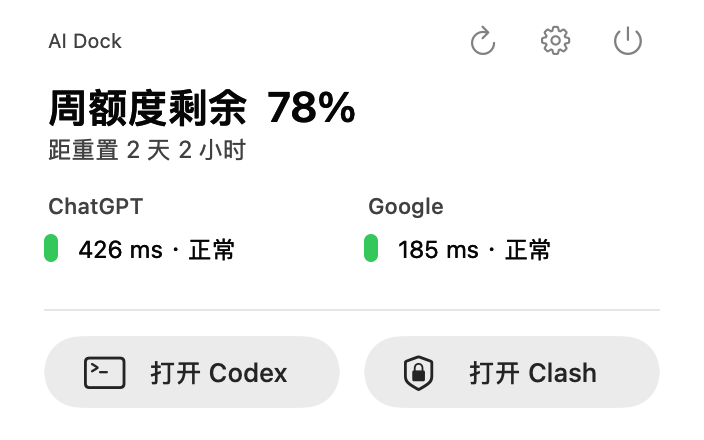
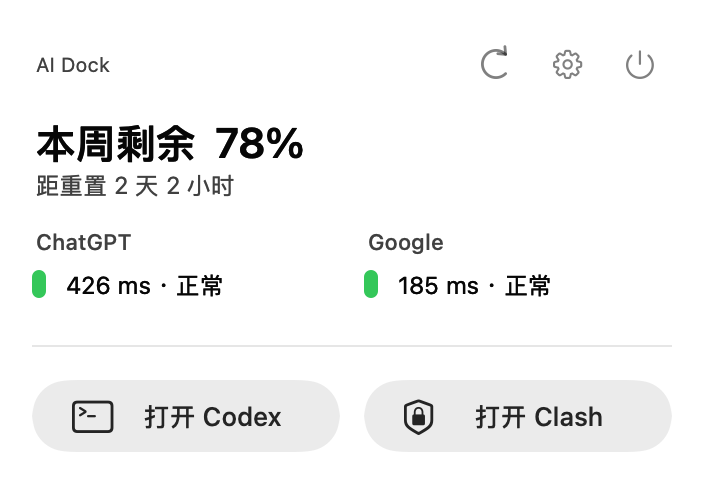
Center refresh on its circular arc, smooth both transitions and balance panel margins

diff --git a/Sources/main.swift b/Sources/main.swift
@@ -222,139 +222,110 @@ func probeLabel(_ name: String, checked: Bool, latency: Int?, threshold: Int) ->
 final class RefreshGlyphButton: NSButton {
     enum Phase { case idle, running, success, failure }
     private let ink = CALayer()
-    private let symbol = CALayer()
     private let stroke = CAShapeLayer()
     private let head = CAShapeLayer()
     private var phase: Phase = .idle
+    static let radius: CGFloat = 6.8
     static func path(check: Bool) -> CGPath {
         let p = CGMutablePath()
         for i in 0...48 {
-            let t = CGFloat(i) / 48
+            let t = CGFloat(i)/48
             let point: CGPoint
             if check {
-                let a = CGPoint(x: 8, y: 16), b = CGPoint(x: 14, y: 22), c = CGPoint(x: 24, y: 9)
-                if t < 0.38 { let u = t / 0.38; point = CGPoint(x: a.x + (b.x-a.x)*u, y: a.y + (b.y-a.y)*u) }
-                else { let u = (t-0.38)/0.62; point = CGPoint(x: b.x+(c.x-b.x)*u, y:b.y+(c.y-b.y)*u) }
+                let a=CGPoint(x:9.5,y:16), b=CGPoint(x:14,y:20.5), c=CGPoint(x:23,y:10.5)
+                if t < 0.34 { let u=t/0.34; point=CGPoint(x:a.x+(b.x-a.x)*u,y:a.y+(b.y-a.y)*u) }
+                else { let u=(t-0.34)/0.66; point=CGPoint(x:b.x+(c.x-b.x)*u,y:b.y+(c.y-b.y)*u) }
             } else {
-                let angle = CGFloat.pi / 4 + t * 3 * CGFloat.pi / 2
-                point = CGPoint(x: 16 + cos(angle)*8, y:16 + sin(angle)*8)
+                let angle=CGFloat.pi/4+t*3*CGFloat.pi/2
+                point=CGPoint(x:16+cos(angle)*radius,y:16+sin(angle)*radius)
             }
             if i == 0 { p.move(to:point) } else { p.addLine(to:point) }
         }
         return p
     }
-    override init(frame frameRect: NSRect) {
-        super.init(frame:frameRect)
-        title = ""; isBordered = false; wantsLayer = true
-        image = NSImage(systemSymbolName:"arrow.clockwise",accessibilityDescription:nil)?.withSymbolConfiguration(NSImage.SymbolConfiguration(pointSize:14,weight:.regular))
-        contentTintColor = .secondaryLabelColor
-        imagePosition = .imageOnly; imageScaling = .scaleNone
-        ink.isHidden = true
-        ink.bounds = CGRect(x:0,y:0,width:32,height:32); ink.position = CGPoint(x:16,y:16)
-        ink.isGeometryFlipped = false
+    override init(frame:NSRect) {
+        super.init(frame:frame)
+        title=""; isBordered=false; wantsLayer=true
+        ink.bounds=CGRect(x:0,y:0,width:32,height:32)
+        ink.anchorPoint=CGPoint(x:0.5,y:0.5); ink.position=CGPoint(x:16,y:16)
         layer?.addSublayer(ink)
-        symbol.bounds = CGRect(x:0,y:0,width:32,height:32)
-        symbol.anchorPoint = CGPoint(x:0.5,y:0.5)
-        symbol.position = CGPoint(x:16,y:16)
-        layer?.addSublayer(symbol)
-        updateSymbol()
-        image = nil
         for line in [stroke,head] {
-            line.fillColor = nil; line.lineWidth = 1.5; line.lineCap = .round; line.lineJoin = .round
+            line.fillColor=nil;line.lineWidth=1.4;line.lineCap = .round;line.lineJoin = .round
             ink.addSublayer(line)
         }
-        stroke.path = Self.path(check:false)
-        let angle = 7 * CGFloat.pi / 4
-        let tip = CGPoint(x:16+cos(angle)*8,y:16+sin(angle)*8)
-        let tangent = CGPoint(x:-sin(angle),y:cos(angle))
-        let wing = CGMutablePath()
-        wing.move(to:CGPoint(x:tip.x-tangent.x*4-tangent.y*3,y:tip.y-tangent.y*4+tangent.x*3))
+        stroke.path=Self.path(check:false)
+        let angle=7*CGFloat.pi/4
+        let tip=CGPoint(x:16+cos(angle)*Self.radius,y:16+sin(angle)*Self.radius)
+        // Arrowhead wings share the clockwise tangent, independently of its bounds.
+        let tangent=CGPoint(x:-sin(angle),y:cos(angle))
+        let wing=CGMutablePath()
+        wing.move(to:CGPoint(x:tip.x-tangent.x*3-tangent.y*2.5,y:tip.y-tangent.y*3+tangent.x*2.5))
         wing.addLine(to:tip)
-        wing.addLine(to:CGPoint(x:tip.x-tangent.x*4+tangent.y*3,y:tip.y-tangent.y*4-tangent.x*3))
-        head.path = wing
-    }
-    private func updateSymbol() {
-        let glyph = NSImage(systemSymbolName:"arrow.clockwise",accessibilityDescription:nil)!.withSymbolConfiguration(NSImage.SymbolConfiguration(pointSize:14,weight:.regular))!
-        let canvas = NSImage(size:NSSize(width:32,height:32),flipped:false) { _ in
-            glyph.draw(in:NSRect(x:(32-glyph.size.width)/2,y:(32-glyph.size.height)/2,width:glyph.size.width,height:glyph.size.height))
-            let cg = NSGraphicsContext.current!.cgContext
-            cg.setBlendMode(.sourceIn)
-            cg.setFillColor(NSColor(calibratedWhite:0.52,alpha:1).cgColor)
-            cg.fill(CGRect(x:0,y:0,width:32,height:32))
-            return true
-        }
-        var rect=CGRect(x:0,y:0,width:32,height:32)
-        symbol.contents = canvas.cgImage(forProposedRect:&rect,context:nil,hints:nil)
-        symbol.contentsScale = 2
-    }
-    func hasFixedRotationCenter() -> Bool {
-        symbol.position == CGPoint(x:16,y:16) && symbol.anchorPoint == CGPoint(x:0.5,y:0.5) && symbol.bounds == CGRect(x:0,y:0,width:32,height:32) && CATransform3DIsIdentity(layer!.transform) && layer?.animation(forKey:"symbolRotation") == nil
+        wing.addLine(to:CGPoint(x:tip.x-tangent.x*3+tangent.y*2.5,y:tip.y-tangent.y*3-tangent.x*2.5))
+        head.path=wing
+        update(.idle)
     }
     required init?(coder:NSCoder) { fatalError("init(coder:) is unsupported") }
-    func update(_ next: Phase) {
-        let color = next == .failure ? NSColor.systemOrange : NSColor.secondaryLabelColor
-        CATransaction.begin(); CATransaction.setDisableActions(true)
-        stroke.strokeColor = color.cgColor; head.strokeColor = color.cgColor
-        CATransaction.commit()
-        updateSymbol()
+    func hasFixedRotationCenter()->Bool {
+        ink.position == CGPoint(x:16,y:16) && ink.anchorPoint == CGPoint(x:0.5,y:0.5) && CATransform3DIsIdentity(layer!.transform)
+    }
+    func update(_ next:Phase) {
+        effectiveAppearance.performAsCurrentDrawingAppearance {
+            CATransaction.begin();CATransaction.setDisableActions(true)
+            stroke.strokeColor=NSColor.secondaryLabelColor.cgColor
+            head.strokeColor=NSColor.secondaryLabelColor.cgColor
+            CATransaction.commit()
+        }
         isEnabled = next != .running
-        let description = next == .running ? "正在刷新" : next == .success ? "刷新完成" : next == .failure ? "刷新完成，部分数据未获取" : "刷新额度与连接状态"
-        toolTip = description; setAccessibilityLabel(description)
+        let text = next == .running ? "正在刷新" : next == .success ? "刷新完成" : next == .failure ? "刷新完成，部分数据未获取" : "刷新额度与连接状态"
+        toolTip=text;setAccessibilityLabel(text)
         guard next != phase else { return }
-        let reduce = NSWorkspace.shared.accessibilityDisplayShouldReduceMotion
-        // Rotate the same SF Symbol used at rest, around the fixed button center.
-        // Never substitute the hand-drawn morph path while spinning.
-        let rotation = symbol.presentation()?.transform ?? CATransform3DIdentity
-        symbol.removeAnimation(forKey:"symbolRotation")
-        if next == .running {
-            image = NSImage(systemSymbolName:"arrow.clockwise",accessibilityDescription:nil)?.withSymbolConfiguration(NSImage.SymbolConfiguration(pointSize:14,weight:.regular))
-            image = nil; symbol.isHidden = false
-            ink.isHidden = true
-            if !reduce {
-                let spin = CABasicAnimation(keyPath:"transform.rotation.z")
-                spin.fromValue = 0; spin.toValue = 2 * Double.pi
-                spin.duration = 1.1; spin.repeatCount = .infinity
-                spin.timingFunction = CAMediaTimingFunction(name:.linear)
-                symbol.add(spin,forKey:"symbolRotation")
-            }
-            phase = next
-            return
-        }
-        if !reduce && phase == .running {
-            let settle = CABasicAnimation(keyPath:"transform")
-            settle.fromValue = NSValue(caTransform3D:rotation)
-            settle.toValue = NSValue(caTransform3D:CATransform3DIdentity)
-            settle.duration = 0.35
-            settle.timingFunction = CAMediaTimingFunction(controlPoints:0.16,1,0.3,1)
-            symbol.add(settle,forKey:"symbolSettle")
-        }
-        symbol.isHidden = next != .idle
-        let oldPath = stroke.presentation()?.path ?? stroke.path
-        let oldTransform = ink.presentation()?.transform ?? ink.transform
-        ink.removeAnimation(forKey:"rotation")
-        CATransaction.begin(); CATransaction.setDisableActions(true)
-        ink.transform = CATransform3DIdentity
-        stroke.path = Self.path(check:next == .success)
-        head.opacity = next == .success ? 0 : 1
+        let reduce=NSWorkspace.shared.accessibilityDisplayShouldReduceMotion
+        let wasRunning=phase == .running
+        let currentPath=stroke.presentation()?.path ?? stroke.path
+        let transform=ink.presentation()?.transform ?? CATransform3DIdentity
+        let currentHead=head.presentation()?.opacity ?? head.opacity
+        ink.removeAllAnimations();stroke.removeAllAnimations();head.removeAllAnimations()
+        let settleTime:Double = wasRunning && !reduce ? 0.22 : 0
+        let morphTime:Double = reduce ? 0 : 0.38
+        let now=CACurrentMediaTime()
+        CATransaction.begin();CATransaction.setDisableActions(true)
+        ink.transform=CATransform3DIdentity
+        stroke.path=Self.path(check:next == .success)
+        head.opacity=next == .success ? 0 : 1
+        ink.isHidden=next == .failure
         CATransaction.commit()
+        image=next == .failure ? NSImage(systemSymbolName:"exclamationmark.circle",accessibilityDescription:nil)?.withSymbolConfiguration(NSImage.SymbolConfiguration(pointSize:14,weight:.regular)) : nil
+        contentTintColor = .secondaryLabelColor
         if !reduce {
-            let morph = CABasicAnimation(keyPath:"path")
-            morph.fromValue = oldPath; morph.toValue = stroke.path; morph.duration = 0.55
-            morph.timingFunction = CAMediaTimingFunction(controlPoints:0.22,0.80,0.25,1)
+            if wasRunning {
+                var angle=atan2(transform.m12,transform.m11)
+                if angle < 0 { angle += 2 * .pi }
+                let settle=CABasicAnimation(keyPath:"transform.rotation.z")
+                settle.fromValue=angle;settle.toValue=2*Double.pi;settle.duration=settleTime
+                settle.timingFunction=CAMediaTimingFunction(controlPoints:0.2,0.8,0.3,1)
+                ink.add(settle,forKey:"settle")
+            }
+            // Finish rotation before changing the path, avoiding a twisting checkmark.
+            let morph=CABasicAnimation(keyPath:"path")
+            morph.fromValue=currentPath;morph.toValue=stroke.path
+            morph.beginTime=now+settleTime;morph.duration=morphTime
+            morph.fillMode = .backwards
+            morph.timingFunction=CAMediaTimingFunction(controlPoints:0.25,0.1,0.25,1)
             stroke.add(morph,forKey:"morph")
-            let settle = CABasicAnimation(keyPath:"transform")
-            settle.fromValue = NSValue(caTransform3D:oldTransform); settle.toValue = NSValue(caTransform3D:CATransform3DIdentity)
-            settle.duration = 0.40; settle.timingFunction = CAMediaTimingFunction(controlPoints:0.16,1,0.30,1)
-            if next != .running { ink.add(settle,forKey:"settle") }
-            let fade = CABasicAnimation(keyPath:"opacity")
-            fade.fromValue = head.presentation()?.opacity ?? (phase == .success ? 0 : 1)
-            fade.toValue = head.opacity; fade.duration = 0.25; head.add(fade,forKey:"fade")
+            let fade=CABasicAnimation(keyPath:"opacity")
+            fade.fromValue=currentHead;fade.toValue=head.opacity
+            fade.beginTime=now+settleTime;fade.duration=morphTime
+            fade.fillMode = .backwards;head.add(fade,forKey:"fade")
+            if next == .running {
+                let spin=CABasicAnimation(keyPath:"transform.rotation.z")
+                spin.fromValue=0;spin.toValue=2*Double.pi;spin.duration=1.1;spin.repeatCount = .infinity
+                spin.beginTime=now+(phase == .success ? morphTime : 0)
+                spin.timingFunction=CAMediaTimingFunction(name:.linear)
+                ink.add(spin,forKey:"rotation")
+            }
         }
-        // Partial failure never morphs to a success checkmark.
-        if next == .failure { image = NSImage(systemSymbolName:"exclamationmark.circle",accessibilityDescription:nil); ink.isHidden = true }
-        else if next == .idle { image = nil; ink.isHidden = true }
-        else { image = nil; ink.isHidden = false }
-        phase = next
+        phase=next
     }
 }
 final class App: NSObject, NSApplicationDelegate, NSMenuDelegate {
@@ -425,10 +396,10 @@ final class App: NSObject, NSApplicationDelegate, NSMenuDelegate {
             return
         }
         let dashboard = dashboardView(state: state)
-        let root = NSView(frame: NSRect(x: 0, y: 0, width: 352, height: dashboard.frame.height + 66))
-        dashboard.setFrameOrigin(NSPoint(x: 6, y: 66))
+        let root = NSView(frame: NSRect(x: 0, y: 0, width: 352, height: dashboard.frame.height + 74))
+        dashboard.setFrameOrigin(NSPoint(x: 6, y: 74))
         root.addSubview(dashboard)
-        let line = NSBox(frame: NSRect(x: 22, y: 64, width: 308, height: 1))
+        let line = NSBox(frame: NSRect(x: 16, y: 72, width: 320, height: 1))
         line.boxType = .separator
         root.addSubview(line)
         let launchers = launcherView()
@@ -480,7 +451,7 @@ final class App: NSObject, NSApplicationDelegate, NSMenuDelegate {
     }
     func dashboardView(state: ProbeState) -> NSView {
         let extra = (snapshot.resetCredits != nil ? 24 : 0) + (snapshot.ordinaryUsageAllowed == false ? 24 : 0)
-        let height = CGFloat(154 + extra)
+        let height = CGFloat(172 + extra)
         let view = NSView(frame: NSRect(x: 0, y: 0, width: 340, height: height))
         func label(_ text: String, _ x: CGFloat, _ y: CGFloat, _ width: CGFloat, _ size: CGFloat, _ color: NSColor = .labelColor, _ weight: NSFont.Weight = .regular) -> NSTextField {
             let field = NSTextField(labelWithString: text)
@@ -490,23 +461,23 @@ final class App: NSObject, NSApplicationDelegate, NSMenuDelegate {
             view.addSubview(field)
             return field
         }
-        _ = label("AI Dock", 16, height - 38, 198, 10, .secondaryLabelColor)
-        _ = label(weeklyRemaining.map { "本周剩余  \(Int(($0 * 100).rounded()))%" } ?? "周额度暂不可用", 16, height - 65, 308, 21, .labelColor, .semibold)
+        _ = label("AI Dock", 10, height - 50, 198, 10, .secondaryLabelColor)
+        _ = label(weeklyRemaining.map { "本周剩余  \(Int(($0 * 100).rounded()))%" } ?? "周额度暂不可用", 10, height - 83, 320, 21, .labelColor, .semibold)
         let quotaDetail = weeklyRemaining == nil
             ? (quotaBusy ? "正在读取 Codex 额度…" : (snapshot.lines.first ?? "当前账户未提供周额度"))
             : Quota.countdown(snapshot.resetsAt)
-        _ = label(quotaDetail, 16, height - 91, 308, 12, .secondaryLabelColor)
-        var nextY = height - 115
+        _ = label(quotaDetail, 10, height - 109, 320, 12, .secondaryLabelColor)
+        var nextY = height - 133
         if let credits = snapshot.resetCredits {
-            _ = label("可用重置  \(credits) 次", 16, nextY, 308, 12)
+            _ = label("可用重置  \(credits) 次", 10, nextY, 320, 12)
             nextY -= 24
         }
         if snapshot.ordinaryUsageAllowed == false {
-            _ = label("常规额度暂不可用", 16, nextY, 308, 12, .secondaryLabelColor)
+            _ = label("常规额度暂不可用", 10, nextY, 320, 12, .secondaryLabelColor)
         }
         let targets: [(String, Bool, Int?, Bool)] = [("ChatGPT", checked, latency, probeBusy), ("Google", googleChecked, googleLatency, googleBusy)]
         for (index, target) in targets.enumerated() {
-            let x = CGFloat(16 + index * 160)
+            let x = CGFloat(10 + index * 166)
             let current = ProbeState.state(checked: target.1, latency: target.2, threshold: threshold)
             _ = label(target.0, x, 34, 148, 11, .secondaryLabelColor, .medium)
             let swatch = NSView(frame: NSRect(x: x, y: 23, width: 7, height: 14))
@@ -527,7 +498,7 @@ final class App: NSObject, NSApplicationDelegate, NSMenuDelegate {
         for (index, action) in actions.enumerated() {
             if index == 0 {
                 refreshGlyph.target = self; refreshGlyph.action = action.2
-                refreshGlyph.frame = NSRect(x:220,y:Int(height)-36,width:32,height:32)
+                refreshGlyph.frame = NSRect(x:226,y:Int(height)-48,width:32,height:32)
                 let phase: RefreshGlyphButton.Phase = manualRefresh ? .running : refreshFinished != nil ? (refreshHadFailure ? .failure : .success) : .idle
                 refreshGlyph.update(phase)
                 view.addSubview(refreshGlyph)
@@ -537,7 +508,7 @@ final class App: NSObject, NSApplicationDelegate, NSMenuDelegate {
             button.isBordered = false; button.contentTintColor = .secondaryLabelColor
             button.image = button.image?.withSymbolConfiguration(NSImage.SymbolConfiguration(pointSize:14,weight:.regular))
             button.imagePosition = .imageOnly; button.imageScaling = .scaleNone
-            button.frame = NSRect(x:220+index*36,y:Int(height)-36,width:32,height:32)
+            button.frame = NSRect(x:226+index*36,y:Int(height)-48,width:32,height:32)
             button.toolTip = action.1; button.setAccessibilityLabel(action.1)
             view.addSubview(button)
         }
@@ -566,7 +537,7 @@ final class App: NSObject, NSApplicationDelegate, NSMenuDelegate {
             }
             button.imagePosition = .imageLeading
             button.imageScaling = .scaleProportionallyDown
-            button.frame = NSRect(x: 16 + index * 160, y: 8, width: 148, height: 44)
+            button.frame = NSRect(x: 10 + index * 166, y: 12, width: 154, height: 44)
             button.setAccessibilityLabel(entry.0)
             view.addSubview(button)
         }
@@ -639,6 +610,14 @@ if CommandLine.arguments.contains("--self-test") {
     RefreshGlyphButton.path(check:false).applyWithBlock { arrowElements.append($0.pointee.type) }
     RefreshGlyphButton.path(check:true).applyWithBlock { checkElements.append($0.pointee.type) }
     precondition(arrowElements == checkElements && arrowElements.count == 49)
+    RefreshGlyphButton.path(check:false).applyWithBlock { element in
+        let point=element.pointee.points[0]
+        precondition(abs(hypot(point.x-16,point.y-16)-RefreshGlyphButton.radius)<0.0001)
+    }
+    for angle in stride(from:0.0,to:2*Double.pi,by:Double.pi/24) {
+        let x=cos(angle)*Double(RefreshGlyphButton.radius), y=sin(angle)*Double(RefreshGlyphButton.radius)
+        precondition(abs(hypot(x,y)-Double(RefreshGlyphButton.radius))<0.0001)
+    }
     let _ = NSApplication.shared
     let fixture = App()
     let settings = fixture.settingsView()

diff --git a/VALIDATION.md b/VALIDATION.md
@@ -26,3 +26,5 @@ Do not describe the candidate as publicly released or fully cross-platform teste
 - README images use synthetic values rendered from actual native view code; no live account screenshots uploaded. Energy review is in PERFORMANCE.md; only one process snapshot measured.
 
 - Follow-up: rotate only an explicitly centered child symbol layer, never the AppKit-owned button layer. Verified native views at 0/90/180/270 degrees and fixed-center assertions after button relocation. Quota heading now reads 本周剩余.
+
+- Rotation follow-up: one circular vector path with a known geometric center replaces SF Symbol bounding-box rotation. Arc radius invariance checked across a full turn. Color follows effective appearance; finish rotation before morph; reverse morph retained. Toolbar top/right and launcher bottom/side control margins are 16 pt.
